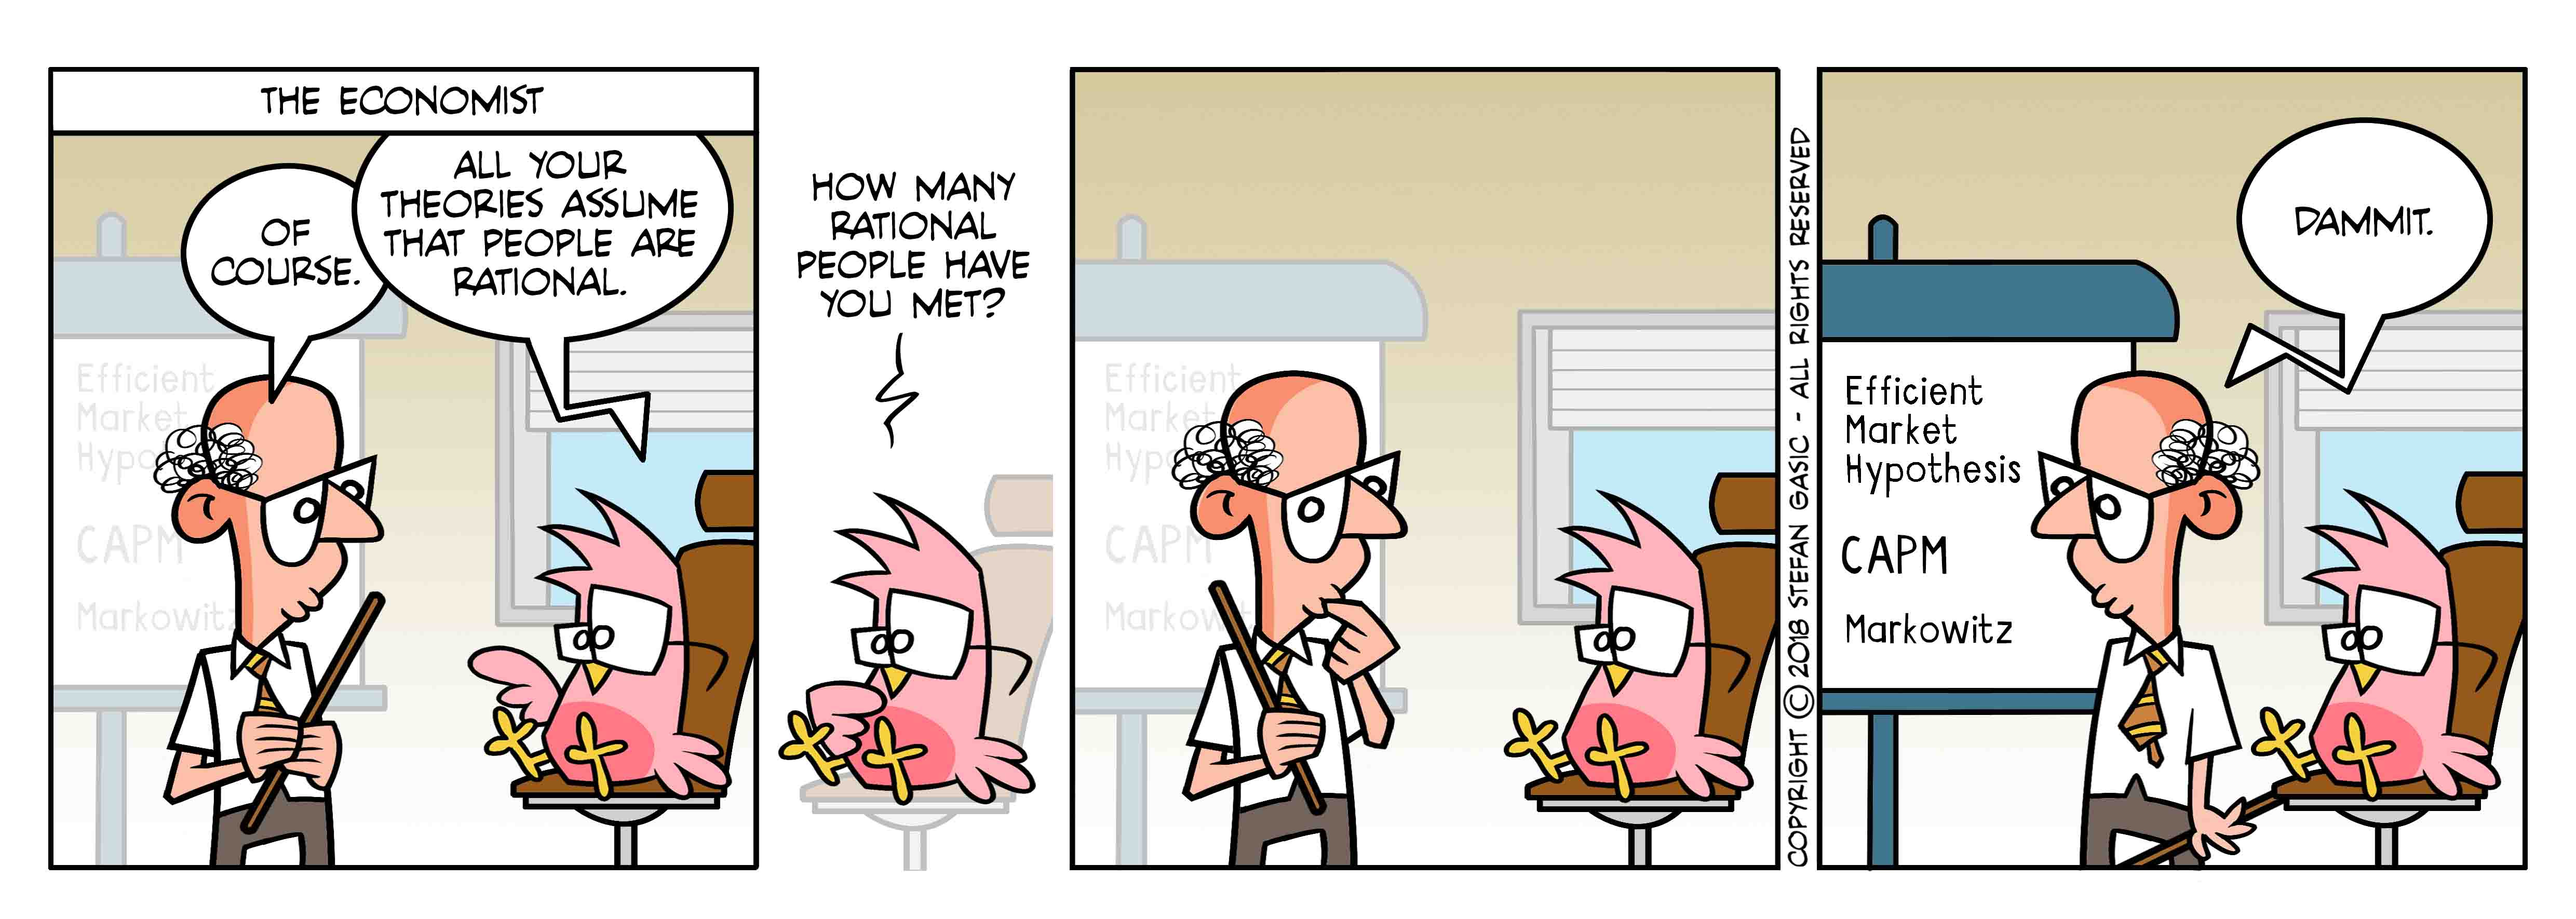
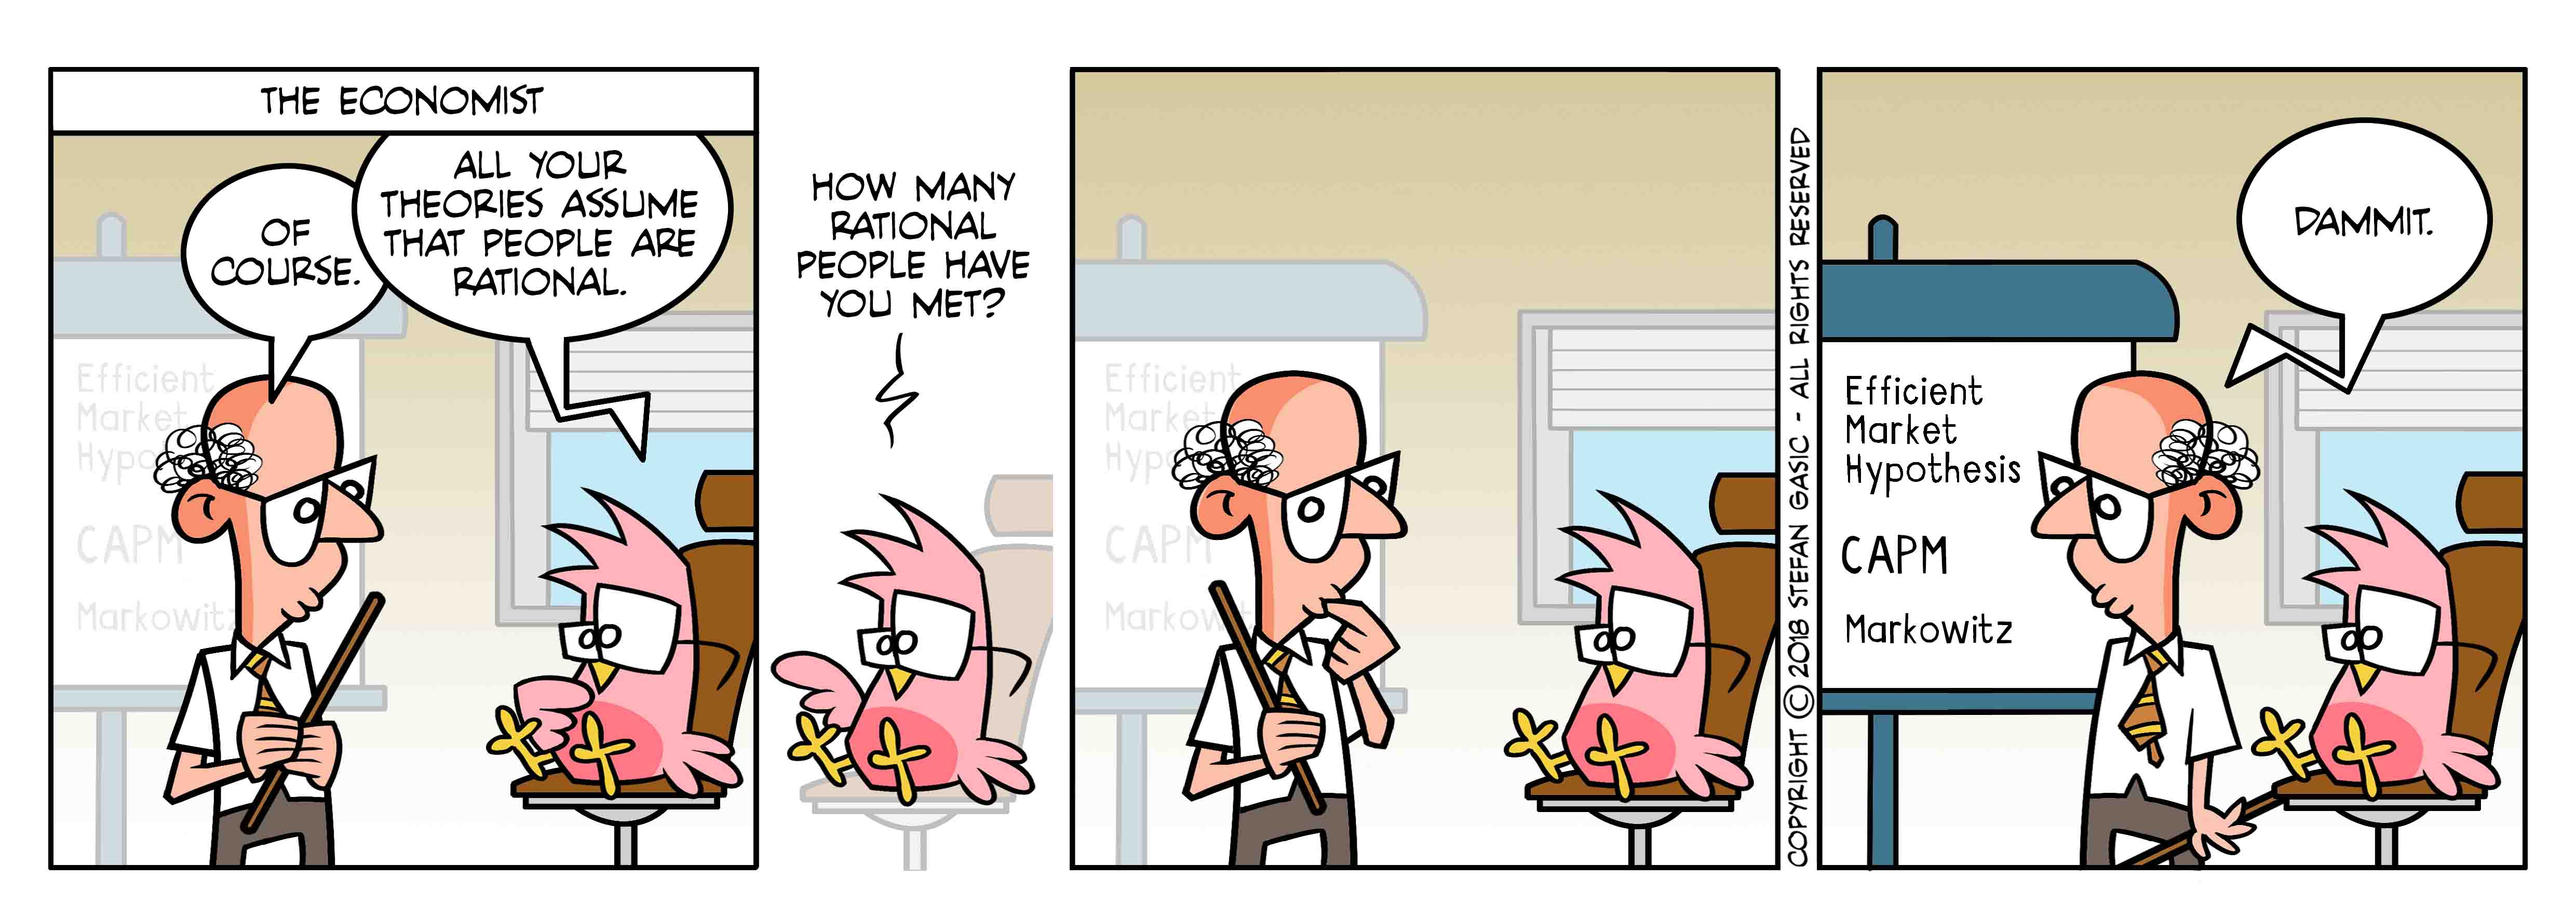
Added new strip and updated the html and js codes accordingly.

Changed region(s): [[0.1562, 0.5282, 0.4062, 0.8701]]

diff --git a/myscripts.js b/myscripts.js
@@ -1,4 +1,4 @@
-var Strips = ["images/S274.jpg","images/S273.jpg","images/S272.jpg","images/S271.jpg","images/S270.jpg","images/S269.jpg","images/S268.jpg","images/S267.jpg","images/S266.jpg","images/S265.jpg","images/S264.jpg","images/S263.jpg","images/S262.jpg","images/S261.jpg","images/S260.jpg","images/S259.jpg","images/S258.jpg","images/S257.jpg","images/S256.jpg","images/S255.jpg","images/S254.jpg","images/S253.jpg","images/S252.jpg","images/S251.jpg","images/S250.jpg","images/S249.jpg","images/S248.jpg","images/S247.jpg","images/S246.jpg","images/S245.jpg","images/S244.jpg","images/S243.jpg","images/S242.jpg","images/S241.jpg","images/S240.jpg","images/S239.jpg","images/S238.jpg","images/S237.jpg","images/S236.jpg","images/S235.jpg","images/S234.jpg","images/S233.jpg","images/S232.jpg","images/S231.jpg","images/S230.jpg","images/S229.jpg","images/S228.jpg","images/S227.jpg","images/S226.jpg","images/S225.jpg","images/S224.jpg","images/S223.jpg","images/S222.jpg","images/S221.jpg","images/S220.jpg","images/S219.jpg","images/S218.jpg","images/S217.jpg","images/S216.jpg","images/S215.jpg","images/S214.jpg","images/S213.jpg","images/S212.jpg","images/S211.jpg","images/S210.jpg","images/S209.jpg","images/S208.jpg","images/S207.jpg","images/S206.jpg","images/S205.jpg","images/S204.jpg","images/S203.jpg","images/S202.jpg","images/S201.jpg","images/S200.jpg","images/S199.jpg","images/S198.jpg","images/S197.jpg","images/S196.jpg","images/S195.jpg","images/S194.jpg","images/S193.jpg","images/S192.jpg","images/S191.jpg","images/S190.jpg","images/S189.jpg","images/S188.jpg","images/S187.jpg","images/S186.jpg","images/S185.jpg","images/S184.jpg","images/S183.jpg","images/S182.jpg","images/S181.jpg","images/S180.jpg","images/S179.jpg","images/S178.jpg","images/S177.jpg","images/S176.jpg","images/S175.jpg","images/S174.jpg","images/S173.jpg","images/S172.jpg","images/S171.jpg","images/S170.jpg","images/S169.jpg","images/S168.jpg","images/S167.jpg","images/S166.jpg","images/S165.jpg","images/S164.jpg","images/S163.jpg","images/S162.jpg","images/S161.jpg","images/S160.jpg","images/S159.jpg","images/S158.jpg","images/S157.jpg","images/S156.jpg","images/S155.jpg","images/S154.jpg","images/S153.jpg","images/S152.jpg","images/S151.jpg","images/S150.jpg","images/S149.jpg","images/S148.jpg","images/S147.jpg","images/S146.jpg","images/S145.jpg","images/S144.jpg","images/S143.jpg","images/S142.jpg","images/S141.jpg","images/S140.jpg","images/S139.jpg","images/S138.jpg","images/S137.jpg","images/S136.jpg","images/S135.jpg","images/S134.jpg","images/S133.jpg","images/S132.jpg","images/S131.jpg","images/S130.jpg","images/S129.jpg","images/S128.jpg","images/S127.jpg","images/S126.jpg","images/S125.jpg","images/S124.jpg","images/S123.jpg","images/S122.jpg","images/S121.jpg","images/S120.jpg","images/S119.jpg","images/S118.jpg","images/S117.jpg","images/S116.jpg","images/S115.jpg","images/S114.jpg","images/S113.jpg","images/S112.jpg","images/S111.jpg","images/S110.jpg","images/S109.jpg","images/S108.jpg","images/S107.jpg","images/S106.jpg","images/S105.jpg","images/S104.jpg","images/S103.jpg","images/S102.jpg","images/S101.jpg","images/S100.jpg","images/S99.jpg","images/S98.jpg","images/S97.jpg","images/S96.jpg","images/S95.jpg","images/S94.jpg","images/S93.jpg","images/S92.jpg","images/S91.jpg","images/S90.jpg","images/S89.jpg","images/S88.jpg","images/S87.jpg","images/S86.jpg","images/S85.jpg","images/S84.jpg","images/S83.jpg","images/S82.jpg","images/S81.jpg","images/S80.jpg","images/S79.jpg","images/S78.jpg","images/S77.jpg","images/S76.jpg","images/S75.jpg","images/S74.jpg","images/S73.jpg","images/S72.jpg","images/S71.jpg","images/S70.jpg","images/S69.jpg","images/S68.jpg","images/S67.jpg","images/S66.jpg","images/S65.jpg","images/S64.jpg","images/S63.jpg","images/S62.jpg","images/S61.jpg","images/S60.jpg","images/S59.jpg","images/S58.jpg","images/S57.jpg","images/S56.jpg","images/S55.jpg","images/S54.jpg","images/S53.jpg","images/S52.jpg","images/S51.jpg","images/S50.jpg","images/S49.jpg","images/S48.jpg","images/S47.jpg","images/S46.jpg","images/S45.jpg","images/S44.jpg","images/S43.jpg","images/S42.jpg","images/S41.jpg","images/S40.jpg","images/S39.jpg","images/S38.jpg","images/S37.jpg","images/S36.jpg","images/S35.jpg","images/S34.jpg","images/S33.jpg","images/S32.jpg","images/S31.jpg","images/S30.jpg","images/S29.jpg","images/S28.jpg","images/S27.jpg","images/S26.jpg","images/S25.jpg","images/S24.jpg","images/S23.jpg","images/S22.jpg","images/S21.jpg","images/S20.jpg","images/S19.jpg","images/S18.jpg","images/S17.jpg","images/S16.jpg","images/S15.jpg","images/S14.jpg","images/S13.jpg","images/S12.jpg","images/S11.jpg","images/S10.jpg","images/S9.jpg","images/S8.jpg","images/S7.jpg","images/S6.jpg","images/S5.jpg","images/S4.jpg","images/S3.jpg","images/S2.jpg","images/S1.jpg"];
+var Strips = ["images/S275.jpg","images/S274.jpg","images/S273.jpg","images/S272.jpg","images/S271.jpg","images/S270.jpg","images/S269.jpg","images/S268.jpg","images/S267.jpg","images/S266.jpg","images/S265.jpg","images/S264.jpg","images/S263.jpg","images/S262.jpg","images/S261.jpg","images/S260.jpg","images/S259.jpg","images/S258.jpg","images/S257.jpg","images/S256.jpg","images/S255.jpg","images/S254.jpg","images/S253.jpg","images/S252.jpg","images/S251.jpg","images/S250.jpg","images/S249.jpg","images/S248.jpg","images/S247.jpg","images/S246.jpg","images/S245.jpg","images/S244.jpg","images/S243.jpg","images/S242.jpg","images/S241.jpg","images/S240.jpg","images/S239.jpg","images/S238.jpg","images/S237.jpg","images/S236.jpg","images/S235.jpg","images/S234.jpg","images/S233.jpg","images/S232.jpg","images/S231.jpg","images/S230.jpg","images/S229.jpg","images/S228.jpg","images/S227.jpg","images/S226.jpg","images/S225.jpg","images/S224.jpg","images/S223.jpg","images/S222.jpg","images/S221.jpg","images/S220.jpg","images/S219.jpg","images/S218.jpg","images/S217.jpg","images/S216.jpg","images/S215.jpg","images/S214.jpg","images/S213.jpg","images/S212.jpg","images/S211.jpg","images/S210.jpg","images/S209.jpg","images/S208.jpg","images/S207.jpg","images/S206.jpg","images/S205.jpg","images/S204.jpg","images/S203.jpg","images/S202.jpg","images/S201.jpg","images/S200.jpg","images/S199.jpg","images/S198.jpg","images/S197.jpg","images/S196.jpg","images/S195.jpg","images/S194.jpg","images/S193.jpg","images/S192.jpg","images/S191.jpg","images/S190.jpg","images/S189.jpg","images/S188.jpg","images/S187.jpg","images/S186.jpg","images/S185.jpg","images/S184.jpg","images/S183.jpg","images/S182.jpg","images/S181.jpg","images/S180.jpg","images/S179.jpg","images/S178.jpg","images/S177.jpg","images/S176.jpg","images/S175.jpg","images/S174.jpg","images/S173.jpg","images/S172.jpg","images/S171.jpg","images/S170.jpg","images/S169.jpg","images/S168.jpg","images/S167.jpg","images/S166.jpg","images/S165.jpg","images/S164.jpg","images/S163.jpg","images/S162.jpg","images/S161.jpg","images/S160.jpg","images/S159.jpg","images/S158.jpg","images/S157.jpg","images/S156.jpg","images/S155.jpg","images/S154.jpg","images/S153.jpg","images/S152.jpg","images/S151.jpg","images/S150.jpg","images/S149.jpg","images/S148.jpg","images/S147.jpg","images/S146.jpg","images/S145.jpg","images/S144.jpg","images/S143.jpg","images/S142.jpg","images/S141.jpg","images/S140.jpg","images/S139.jpg","images/S138.jpg","images/S137.jpg","images/S136.jpg","images/S135.jpg","images/S134.jpg","images/S133.jpg","images/S132.jpg","images/S131.jpg","images/S130.jpg","images/S129.jpg","images/S128.jpg","images/S127.jpg","images/S126.jpg","images/S125.jpg","images/S124.jpg","images/S123.jpg","images/S122.jpg","images/S121.jpg","images/S120.jpg","images/S119.jpg","images/S118.jpg","images/S117.jpg","images/S116.jpg","images/S115.jpg","images/S114.jpg","images/S113.jpg","images/S112.jpg","images/S111.jpg","images/S110.jpg","images/S109.jpg","images/S108.jpg","images/S107.jpg","images/S106.jpg","images/S105.jpg","images/S104.jpg","images/S103.jpg","images/S102.jpg","images/S101.jpg","images/S100.jpg","images/S99.jpg","images/S98.jpg","images/S97.jpg","images/S96.jpg","images/S95.jpg","images/S94.jpg","images/S93.jpg","images/S92.jpg","images/S91.jpg","images/S90.jpg","images/S89.jpg","images/S88.jpg","images/S87.jpg","images/S86.jpg","images/S85.jpg","images/S84.jpg","images/S83.jpg","images/S82.jpg","images/S81.jpg","images/S80.jpg","images/S79.jpg","images/S78.jpg","images/S77.jpg","images/S76.jpg","images/S75.jpg","images/S74.jpg","images/S73.jpg","images/S72.jpg","images/S71.jpg","images/S70.jpg","images/S69.jpg","images/S68.jpg","images/S67.jpg","images/S66.jpg","images/S65.jpg","images/S64.jpg","images/S63.jpg","images/S62.jpg","images/S61.jpg","images/S60.jpg","images/S59.jpg","images/S58.jpg","images/S57.jpg","images/S56.jpg","images/S55.jpg","images/S54.jpg","images/S53.jpg","images/S52.jpg","images/S51.jpg","images/S50.jpg","images/S49.jpg","images/S48.jpg","images/S47.jpg","images/S46.jpg","images/S45.jpg","images/S44.jpg","images/S43.jpg","images/S42.jpg","images/S41.jpg","images/S40.jpg","images/S39.jpg","images/S38.jpg","images/S37.jpg","images/S36.jpg","images/S35.jpg","images/S34.jpg","images/S33.jpg","images/S32.jpg","images/S31.jpg","images/S30.jpg","images/S29.jpg","images/S28.jpg","images/S27.jpg","images/S26.jpg","images/S25.jpg","images/S24.jpg","images/S23.jpg","images/S22.jpg","images/S21.jpg","images/S20.jpg","images/S19.jpg","images/S18.jpg","images/S17.jpg","images/S16.jpg","images/S15.jpg","images/S14.jpg","images/S13.jpg","images/S12.jpg","images/S11.jpg","images/S10.jpg","images/S9.jpg","images/S8.jpg","images/S7.jpg","images/S6.jpg","images/S5.jpg","images/S4.jpg","images/S3.jpg","images/S2.jpg","images/S1.jpg"];
 
 var Current = 0;
 var myStrip = null;

diff --git a/index.html b/index.html
@@ -38,7 +38,7 @@
 		<div class="wrapper6">
 			<div class="wrap-item61"><img src="images/2017_Offshorecomics_web_Today's Offshorecomic.jpg"/></div>
 		</div>
-		<div class="wrap-item1"><img src="images/S274.jpg" id="Strip"/></div>
+		<div class="wrap-item1"><img src="images/S275.jpg" id="Strip"/></div>
 		<div class="wrapper3">
 			<div class="wrap-item3">
 			<button class="button" onClick="Last();">&lsaquo;&lsaquo;</button>
